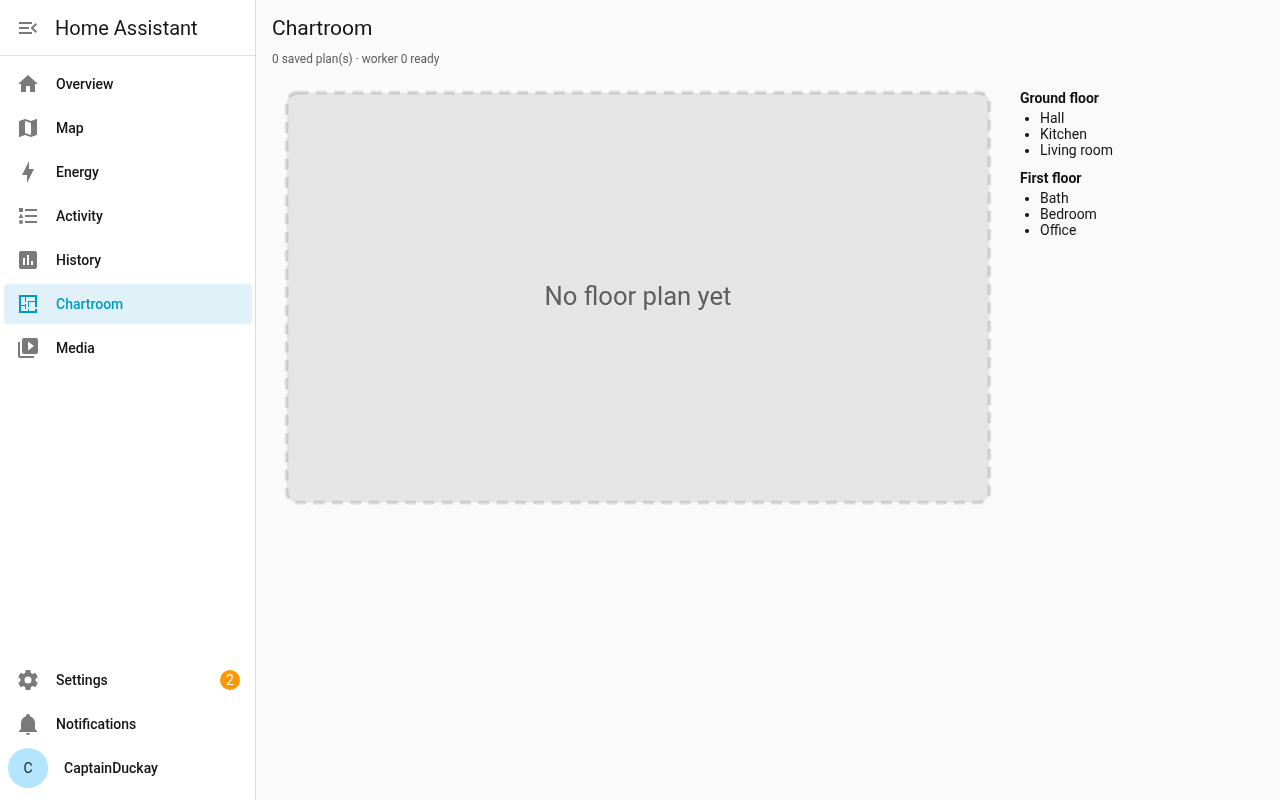
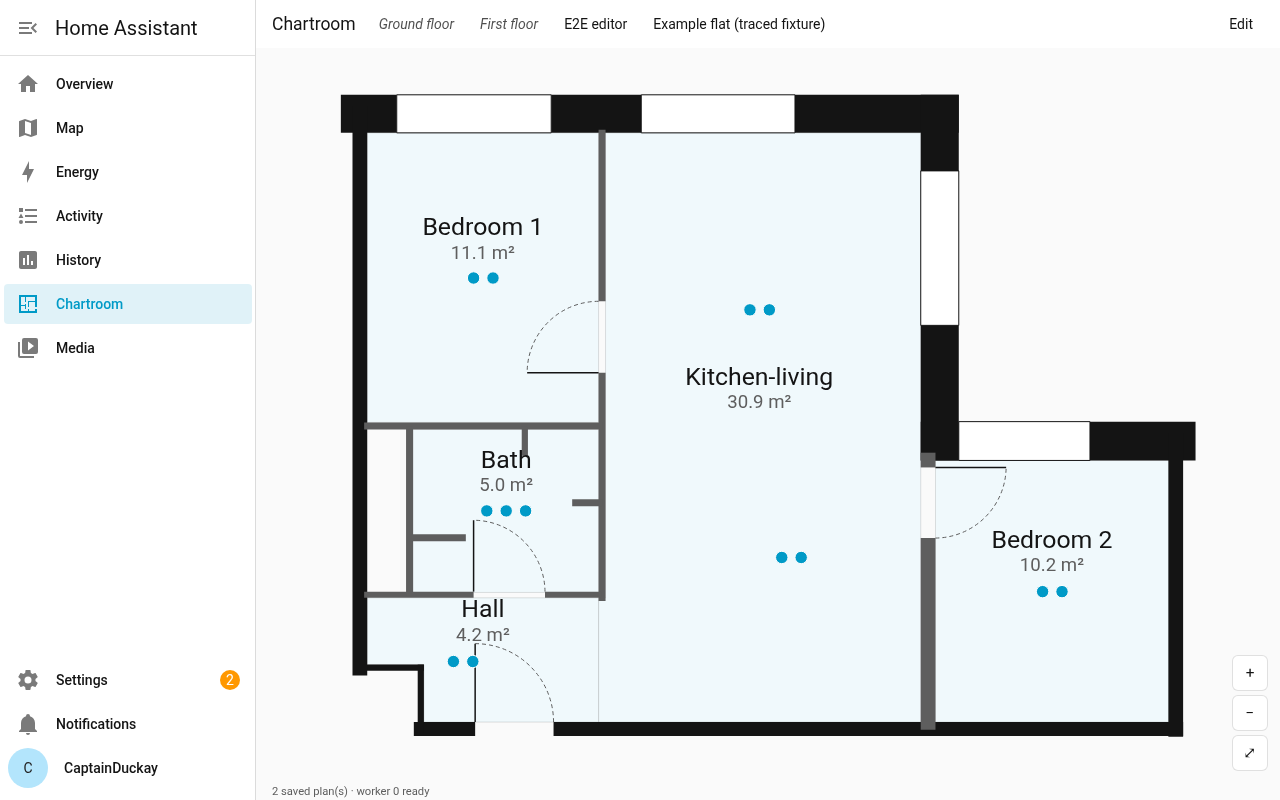
README: Phase 1 status, editor guide and screenshots

diff --git a/README.md b/README.md
@@ -3,11 +3,29 @@
 Floor plans for Home Assistant: draw your home once, then see temperature, humidity and Wi-Fi
 signal as live heatmaps over it — in a sidebar panel and as a dashboard card.
 
-> **Status: Phase 0 (scaffold).** The panel and card load, list your floors and areas, and show a
-> placeholder plan. Drawing (Phase 1) and heatmaps come next. See
-> [docs/render-design.md](docs/render-design.md) for how the heatmaps will be rendered.
+> **Status: Phase 1 (plan and editor).** The panel shows one tab per Home Assistant floor, with
+> pan and zoom, and a built-in editor for walls, doors, windows and rooms over an image underlay.
+> Heatmaps come next. See [docs/render-design.md](docs/render-design.md) for how they will be
+> rendered.
 
 ![Chartroom panel](docs/images/panel.png)
+
+## Drawing your plan
+
+Open **Chartroom** in the sidebar, pick a floor and press **Edit** (or **Create plan** on a floor
+without one). Admins only; changes save automatically.
+
+![Chartroom editor](docs/images/editor.png)
+
+- **Wall**: click to start, click to add corners, double-click or Esc to finish. Endpoints snap to
+  other walls and stay joined when you drag them. Each wall has a material and a thickness.
+- **Door** / **Window**: click on a wall. Width, swing and an optional open/closed entity are set
+  in the inspector.
+- **Room**: click the corners, double-click to close, then link the room to a Home Assistant area.
+- **Underlay**: import a PNG, JPEG, WebP or SVG drawing to trace over, then calibrate the scale
+  with **Measure** (two points and their real distance) or by a room's known area.
+- **Undo** / **Redo**: Ctrl+Z and Ctrl+Shift+Z.
+- **Materials**: the loss per centimetre for each wall material, used by the signal heatmap.
 
 ![Chartroom card](docs/images/card.png)
 
@@ -37,7 +55,7 @@ JavaScript dependencies; everything it needs ships in this repository.
 | `frontend/src/`                        | `<chartroom-panel>` and `<chartroom-card>`: TypeScript Web Components, no framework.      |
 | `tests/`, `frontend/test/`, `e2e/`     | pytest, Vitest, and Playwright against a real Home Assistant.                             |
 
-Websocket commands: `chartroom/plans/list`, `chartroom/plans/get`, `chartroom/plans/save` and `chartroom/plans/delete` (save and delete need an admin).
+Websocket commands: `chartroom/plans/list`, `chartroom/plans/get`, `chartroom/plans/save` and `chartroom/plans/delete` (save and delete need an admin). Underlay images live at `/api/chartroom/underlay/<plan_id>` (GET for any user, POST for admins; at most 10 MB).
 
 ## Example data
 
